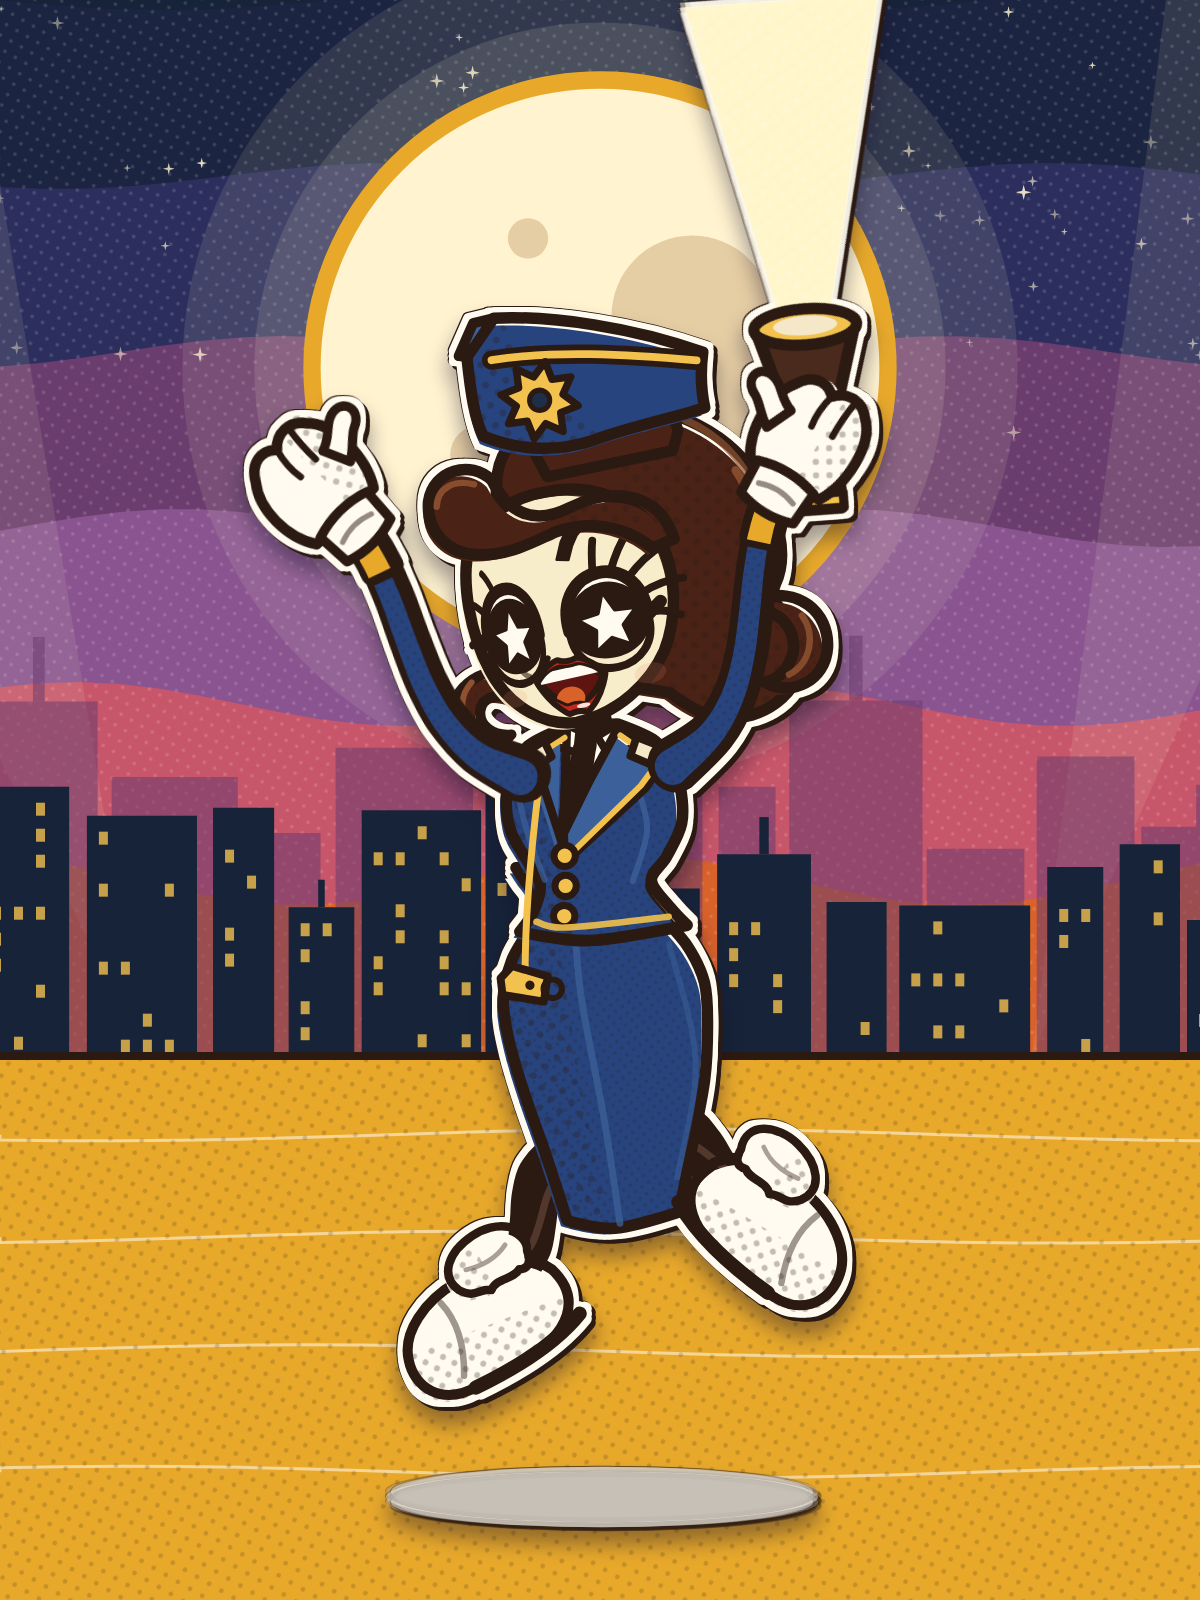
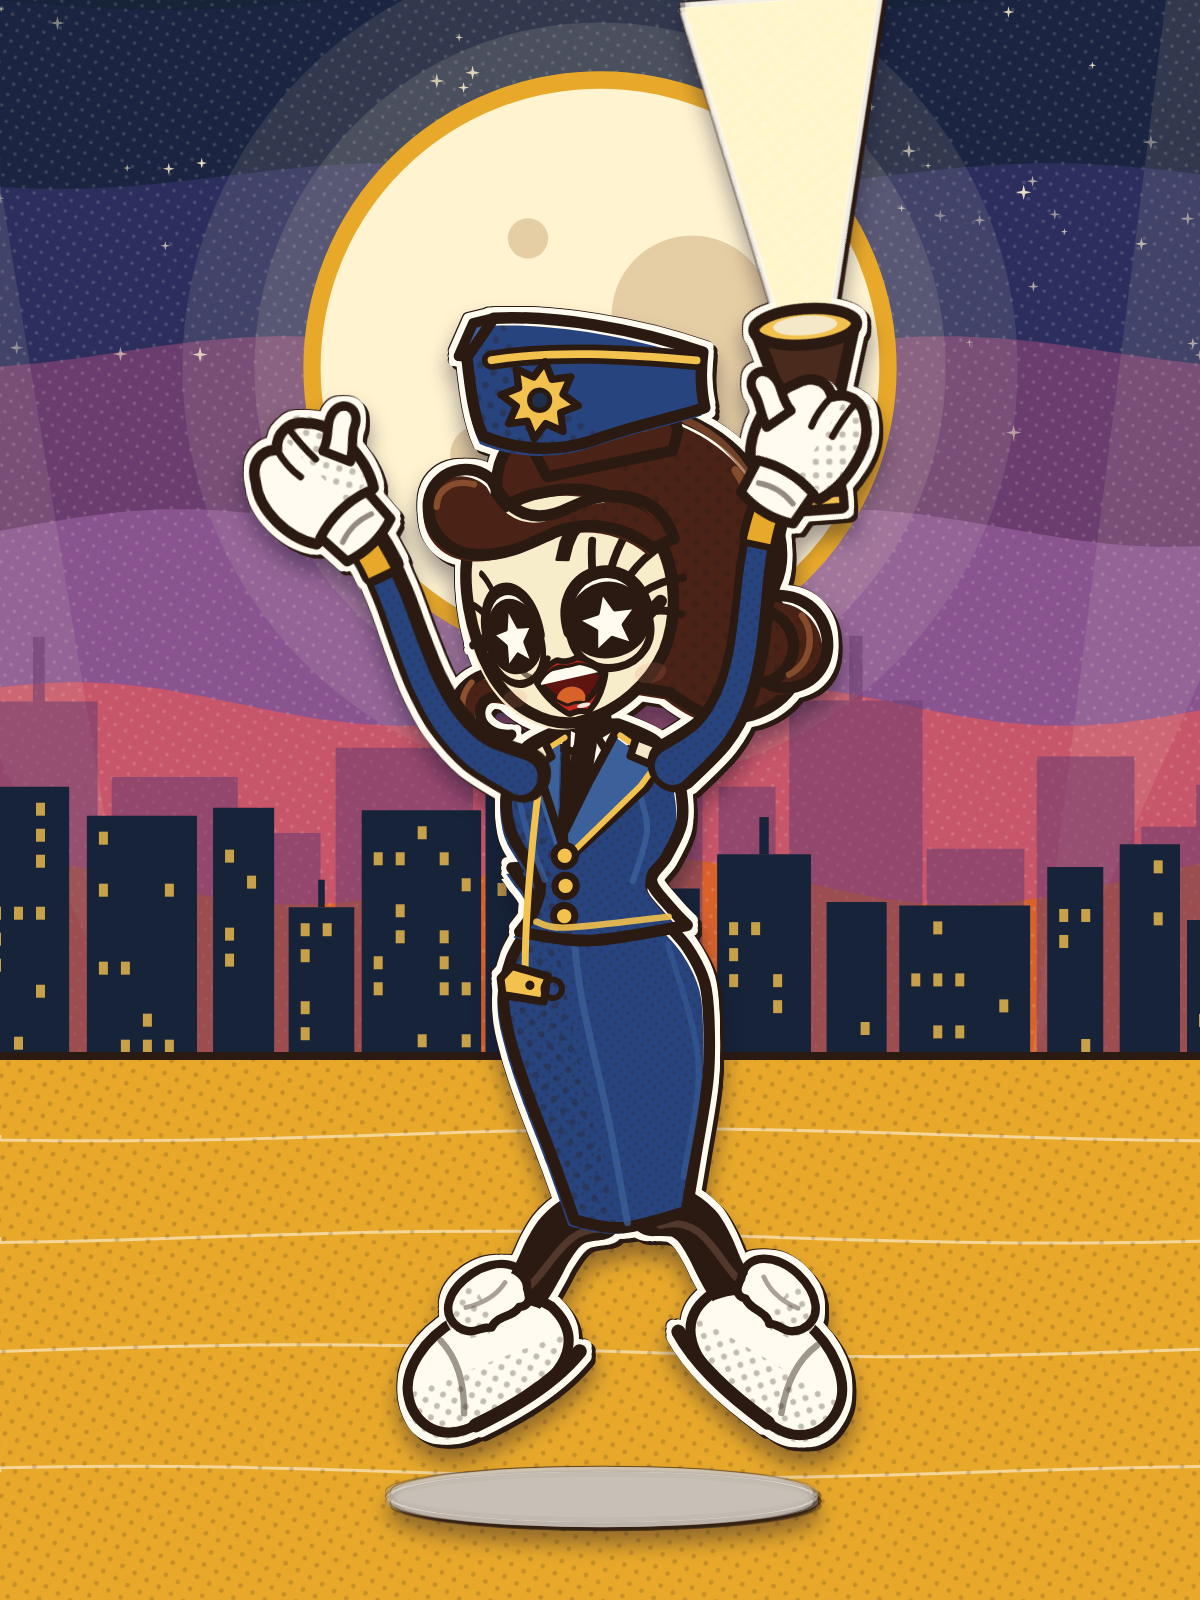
Heroine rig: legs leave from the skirt hem (skirt leans with the feet, feet never above the hem), gown feet stay under the flare, jumpsuit keeps hip joints; key art re-rendered
Claude-Session: https://claude.ai/code/session_01VPnHYWw1WXuybpegvtqvRs

Changed region(s): [[0.3083, 0.625, 0.74, 0.9375], [0.4008, 0.5312, 0.4317, 0.5625]]

diff --git a/frontend_mambo/src/render/heroine/mambo_rig.js b/frontend_mambo/src/render/heroine/mambo_rig.js
@@ -555,17 +555,27 @@ const f2 = (n) => Math.round(n * 100) / 100;
     const lowerOn = CROPS[cropName].lower !== false;
     const hipX = d('hipX') + sway * 1.2, tilt = d('hipTilt') + sway * 0.5;
     if (lowerOn) {
-    setE('skirt', 'transform', `translate(${f(hipX)} 0) rotate(${f(tilt)} 200 346)`);
+    // pass 3: the skirt leans a little toward the feet (skew about the hip), and the legs leave from the HEM, not from hidden hip joints,
+    // so a pencil skirt and its legs always agree (wide stance, kick, jump). Trousers (legs.fromHip) keep the hip joints.
+    const skew = W.legs.fromHip || W.shoesUnder ? 0 : clamp((d('lax') + d('rax')) * 0.1, -6, 6), tk = Math.tan(rad2(skew));
+    setE('skirt', 'transform', `translate(${f(hipX)} 0) rotate(${f(tilt)} 200 346) translate(200 346) skewX(${f(skew)}) translate(-200 -346)`);
     setE('skirt-t', 'transform', `rotate(${f(sec.skirt.x)} 200 304)`);
     const LW = (W.legs.w || 13) / 13, legW = (t) => LW * (12.2 - 3.9 * t + 1.1 * Math.sin(Math.PI * t));   // slim, tapering, slight calf
-    const rootL = rotp(REST.hipJointL, tilt, REST.hip), rootR = rotp(REST.hipJointR, tilt, REST.hip);
-    rootL[0] += hipX; rootR[0] += hipX;
+    const anchor = (J) => {
+      if (W.legs.fromHip) { const q = rotp(J, tilt, REST.hip); q[0] += hipX; return q; }
+      const q = rotp([J[0], REST.skirtHem - 6], sec.skirt.x, [200, 304]); q[0] += tk * (q[1] - 346);
+      const r2 = rotp(q, tilt, REST.hip); r2[0] += hipX; return r2;
+    };
+    const rootL = anchor(REST.hipJointL), rootR = anchor(REST.hipJointR);
+    const bk = W.legs.fromHip ? 1 : 0.55;   // shorter visible leg: smaller bends
     for (const [s, root, A] of [['l', rootL, REST.ankleL], ['r', rootR, REST.ankleR]]) {
       const p = s;
-      const ax = A[0] + d(p + 'ax'), ay = A[1] + d(p + 'ay');
-      const cv = limb(root, [ax, ay], d(p + 'b1'), d(p + 'b2')), dd = tubeD(cv, legW);
+      // floor-length gown (shoesUnder): the feet stay under the flare, only the toes peek out
+      const ax = W.shoesUnder ? clamp(A[0] + d(p + 'ax') * 0.3, 168, 232) : A[0] + d(p + 'ax');
+      const ay = W.shoesUnder ? A[1] : W.legs.fromHip ? A[1] + d(p + 'ay') : Math.max(A[1] + d(p + 'ay'), root[1] + 42);   // feet never climb above the hem
+      const cv = limb(root, [ax, ay], d(p + 'b1') * bk, d(p + 'b2') * bk), dd = tubeD(cv, legW);
       setE(`leg-${s}-ink`, 'd', dd); setE(`leg-${s}-fill`, 'd', dd);
-      if (E[`leg-${s}-sh`]) setE(`leg-${s}-sh`, 'd', cubicD(limb([root[0] - 3, root[1] + 6], [ax - 3, ay - 6], d(p + 'b1') * 0.8, d(p + 'b2') * 0.8)));
+      if (E[`leg-${s}-sh`]) setE(`leg-${s}-sh`, 'd', cubicD(limb([root[0] - 3, root[1] + 6], [ax - 3, ay - 6], d(p + 'b1') * 0.8 * bk, d(p + 'b2') * 0.8 * bk)));
       const flip = d(p + 'sf');
       setE(`shoe-${s}-t`, 'transform', `translate(${f(ax)} ${f(ay)}) rotate(${f(d(p + 'sr'))}) scale(${f2(flip * 0.88)} 0.88)`);
     }

diff --git a/frontend_mambo/src/render/heroine/mambo_outfits.js b/frontend_mambo/src/render/heroine/mambo_outfits.js
@@ -196,7 +196,7 @@ const SUIT = PAL.mustard, LEATHER = '#7A4A2A';
 const vault = {
   key: 'vault', label: 'D. Vault / commando', accent: PAL.mustard, scarf: true,
   sleeve: { fill: SUIT, trim: LEATHER, trimAt: [0.8, 0.9], gloveFrom: null, tex: true }, glove: PAL.white, cuff: PAL.white,
-  legs: { fill: SUIT, w: 17, sock: '#5A3A22' }, shoe: { base: PAL.white },
+  legs: { fill: SUIT, w: 17, sock: '#5A3A22', fromHip: true }, shoe: { base: PAL.white },
   lidFill: PAL.eyeshadow, accBase: 90, accGain: 1, capOver: true, hairTop: () => '',
   skirt(c) { // jumpsuit hips down to the leg tops, centre seam, thigh pockets
     const d = garmentD(290, 414, { hem: 3, hemShift: 2 });
